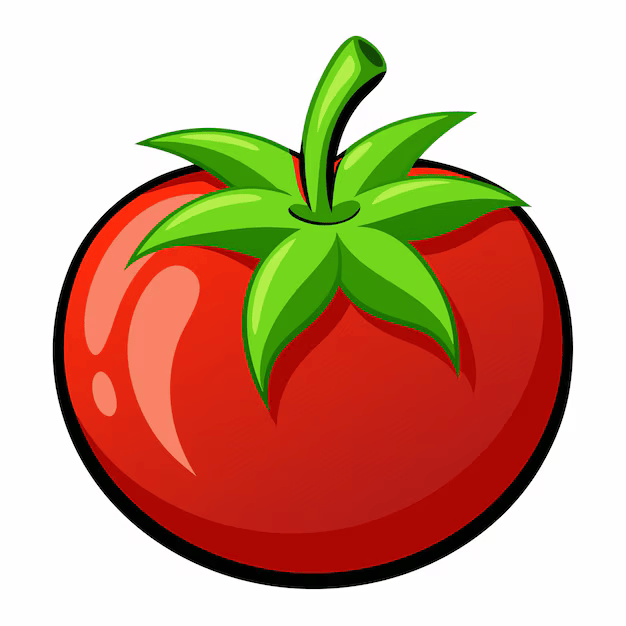
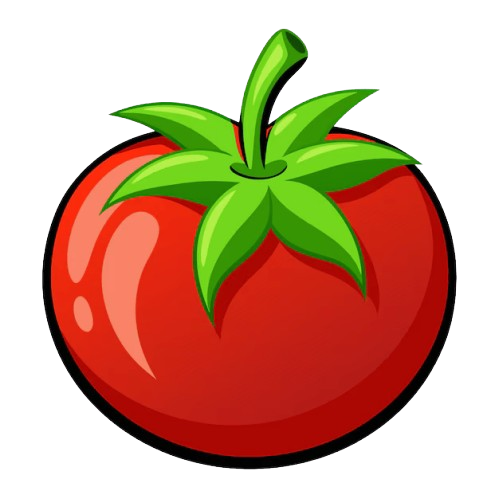
Begin tomato integration

diff --git a/main.py b/main.py
@@ -3,7 +3,9 @@ import gc
 from assets import *
 from towers import *
 
-##assets
+
+pos = 0
+mouse_pos = []
 click = 0
 pygame.init()
 size = 1
@@ -20,6 +22,7 @@ scaledlength = 960
 scaledheight = 540
 scaledwindow = pygame.display.set_mode((scaledlength,scaledheight))
 realwindow = pygame.Surface((reallength,realheight))
+assets.load()
 font = pygame.font.Font(None,40)
 grid = [[0,0,0,0,0,0,0,0,0],
         [0,0,0,0,0,0,0,0,0],
@@ -27,6 +30,9 @@ grid = [[0,0,0,0,0,0,0,0,0],
         [0,0,0,0,0,0,0,0,0],
         [0,0,0,0,0,0,0,0,0]]
 position = (0,0)
+cursor = pygame.Surface((5,5))
+cursor.fill((255,255,255))
+cursor_mask = pygame.mask.from_surface(cursor)
 def draw_centretext(text,colour):
     realwindow.fill((0,0,0))
     closing_text = font.render(text, True, colour)
@@ -37,22 +43,43 @@ def draw_centretext(text,colour):
 def reset_towerselection():
     global current_tower
     current_tower = 0
-def reset_grid(gridvar):
+def reset_grid():
+    global grid
     grid = [[0,0,0,0,0,0,0,0,0],
-        [0,2,0,0,0,0,0,0,0],
+        [0,0,0,0,0,0,0,0,0],
         [0,0,0,0,0,0,0,0,0],
         [0,0,0,0,0,0,0,0,0],
         [0,0,0,0,0,0,0,0,0]]
 def fetch_alltowertypes():
     result = (Tower.__subclasses__())
-    return(result)
+    return result
 def darken_colour(ogcolour):
     darkenedcolour = list(ogcolour)
     for i in range (0,3):
         darkenedcolour[i] = darkenedcolour[i]/2
     darkenedcolour = tuple(darkenedcolour)
-    return(darkenedcolour)
+    return darkenedcolour
+def get_pos(isscaled):
+    global mouse_pos
+    result = 0
+    if isscaled == 1:
+        result = (mouse_pos[0]*(320/scaledlength), mouse_pos[1]*(180/scaledheight))
+    else:
+        result = mouse_pos
+    return(result)
 
+def check_tomato():
+    keyed_tomato = assets.Images["tomato"][0]
+    keyed_tomato = pygame.transform.scale(keyed_tomato, (40,40))
+    tomato_mask = pygame.mask.from_surface(keyed_tomato)
+    tomato_mask = tomato_mask.scale((120,120))
+    tomato_rect = keyed_tomato.get_rect(bottomright=(960,540))
+    if tomato_mask.overlap(cursor_mask, (get_pos(0)[0],get_pos(0)[1])):
+        print(get_pos(0))
+    else:
+        print(get_pos(0))
+        print('not over')
+    scaledwindow.blit(keyed_tomato, tomato_rect)
 def check_towerselection():
     y = 0
     global current_tower
@@ -65,7 +92,7 @@ def check_towerselection():
         button_surf = pygame.Surface((60, 20))
         button_surf.fill(colour)
         button_rect = button_surf.get_rect(center=(40, y * 20 + 46))
-        if button_rect.collidepoint(mouse_pos[0], mouse_pos[1]):
+        if button_rect.collidepoint(get_pos(1)[0], get_pos(1)[1]):
             hovered = True
         if hovered == True:
             if current_tower != towertype:
@@ -100,7 +127,7 @@ def update_grid(gridvar):
             cords = {"x":x,"y":y}
             tile_surf = pygame.Surface((24,24))
             tile_rect = tile_surf.get_rect(topleft=(((x*24) + 100),((y*24) + 30)))
-            if tile_rect.collidepoint(mouse_pos[0], mouse_pos[1]):
+            if tile_rect.collidepoint(get_pos(1)[0], get_pos(1)[1]):
                 hovered = True
             if tile == 0:
                 if hovered == True:
@@ -115,11 +142,7 @@ def update_grid(gridvar):
             if hovered == True:
                 if click == 1:
                     if current_tower == 0:
-                        invalid = font.render("goodbye", True, (0,255,0))
-                        closing_text_rect = closing_text.get_rect()
-                        closing_text_rect.center = (reallength // 2, realheight // 2)
-                        realwindow.blit(closing_text, closing_text_rect)
-                        scaledwindow.blit(pygame.transform.scale(realwindow, (scaledlength,scaledheight)), position)
+                        pass
                     else:
                         grid[y][x] = current_tower(cords)
             hovered = False
@@ -136,9 +159,6 @@ while running == True:
     deltatime = clock.tick(60)
     realwindow.fill((255,255,255))
     mouse_pos = pygame.mouse.get_pos()
-    mouse_pos = (mouse_pos[0]*(320/scaledlength), mouse_pos[1]*(180/scaledheight))
-    check_towerselection()
-    update_grid(grid)
     for event in pygame.event.get():
         if event.type == pygame.QUIT:
             draw_centretext("Closing...",(255,255,255))
@@ -151,7 +171,7 @@ while running == True:
                     tower_cords.append(f'{instance.name}:{instance.cords}')
                 print(tower_cords)
             elif event.key == pygame.K_r:
-                grid = reset_grid(grid)
+                reset_grid()
             elif event.key == pygame.K_1:
                 if current_tower == testRed:
                     reset_towerselection()
@@ -169,6 +189,11 @@ while running == True:
                     current_tower = testBlue
         if event.type == pygame.MOUSEBUTTONDOWN and event.button == 1:
             click = 1
-    scaledwindow.blit(pygame.transform.scale(realwindow, (scaledlength,scaledheight)), position)
+            print(click)
+    check_towerselection()
+    update_grid(grid)
+    newwindow = pygame.transform.scale_by(realwindow,3) 
+    scaledwindow.blit(newwindow, position)
+    check_tomato()
     pygame.display.update()
 pygame.quit()

diff --git a/assets.py b/assets.py
@@ -1,2 +1,8 @@
-assetpaths = {
-    "tomato":["data/images/ui/tomato.png"]}
+import pygame
+
+class assets:
+    @classmethod
+    def load(cls):
+        root = 'data/'
+        cls.Images = {
+    "tomato":[pygame.image.load("data/images/ui/tomato.png").convert_alpha(),0]}
